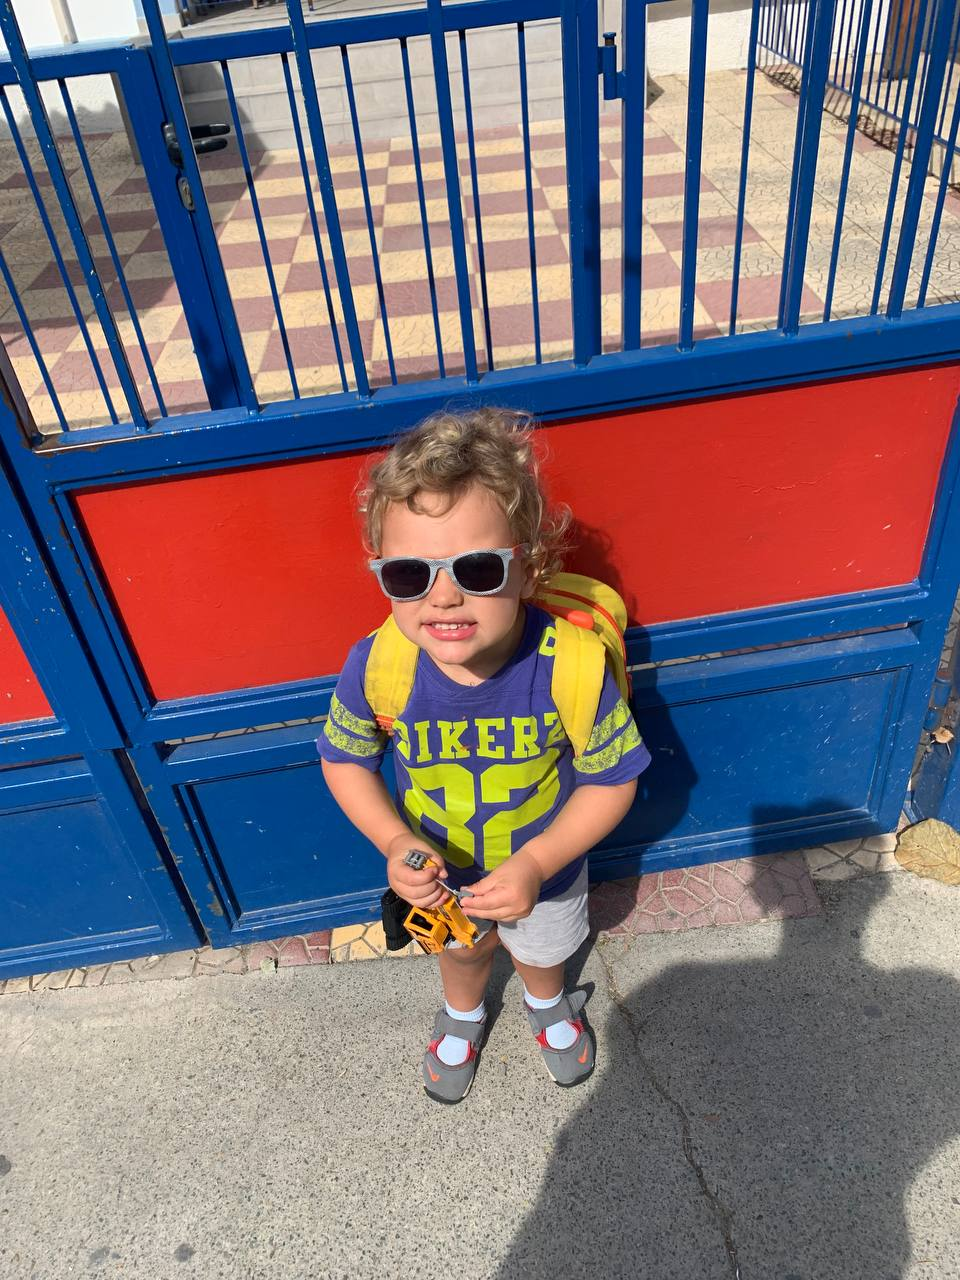
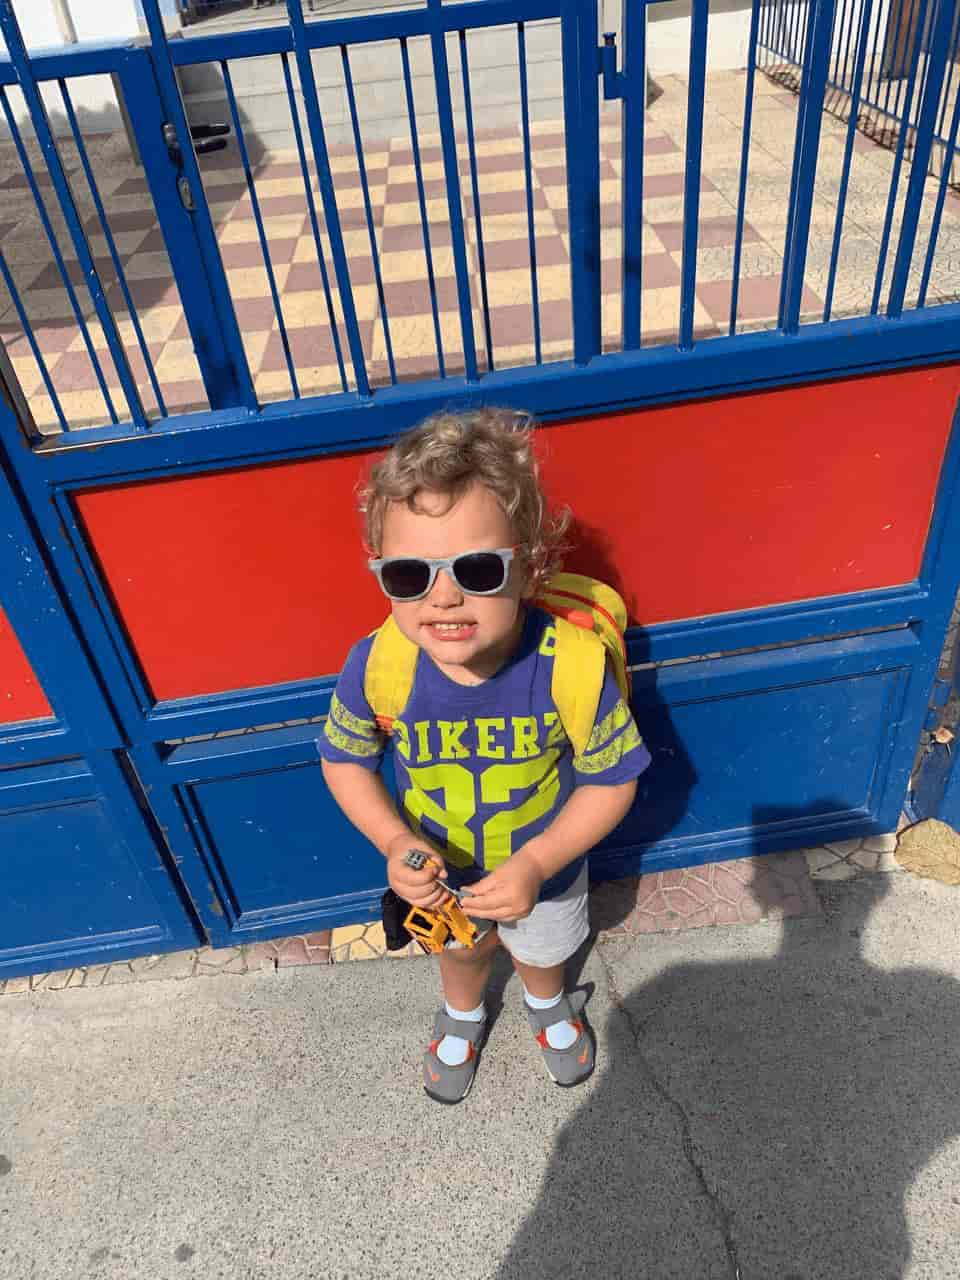
optimize images size

diff --git a/src/config/images.js b/src/config/images.js
@@ -1,19 +1,13 @@
 export const logo = "/images/pmLogo.svg";
-export const dolphin = "/images/dolphin.png";
+export const dolph = "/images/dolph.png";
 export const balloons = "/images/balloons.jpg";
-export const cat = "/images/cat.png";
-export const pm = "/images/pm.png";
-export const ladybag = "/images/ladybag.png";
+export const kitty = "/images/kitty.png";
+export const lady = "/images/lady.png";
 export const gif = "/images/pm.gif";
-export const butterfly1 = "/images/butterfly1.png";
-export const butterfly2 = "/images/butterfly2.png";
-export const butterflies = "/images/butterflies.png";
-export const pspBackground = "/images/yellow.mp4";
-export const bg = "/images/bg.jpg";
-export const cardBg = "/images/cardBg.jpg";
-export const umbrella = "/images/yellow.jpg";
-
-export const yellow = "/images/achira.jpg";
-
-export const cupid = "/images/cupid.png";
-export const bird = "/images/loveBird.png";
+export const butt1 = "/images/butt1.png";
+export const butt2 = "/images/butt2.png";
+export const butterfly = "/images/butterfly.png";
+export const pencils = "/images/pencils.jpg";
+export const yellowBg = "/images/yellowBg.jpg";
+export const cupidLove = "/images/cupidLove.png";
+export const birdLove = "/images/birdLove.png";
